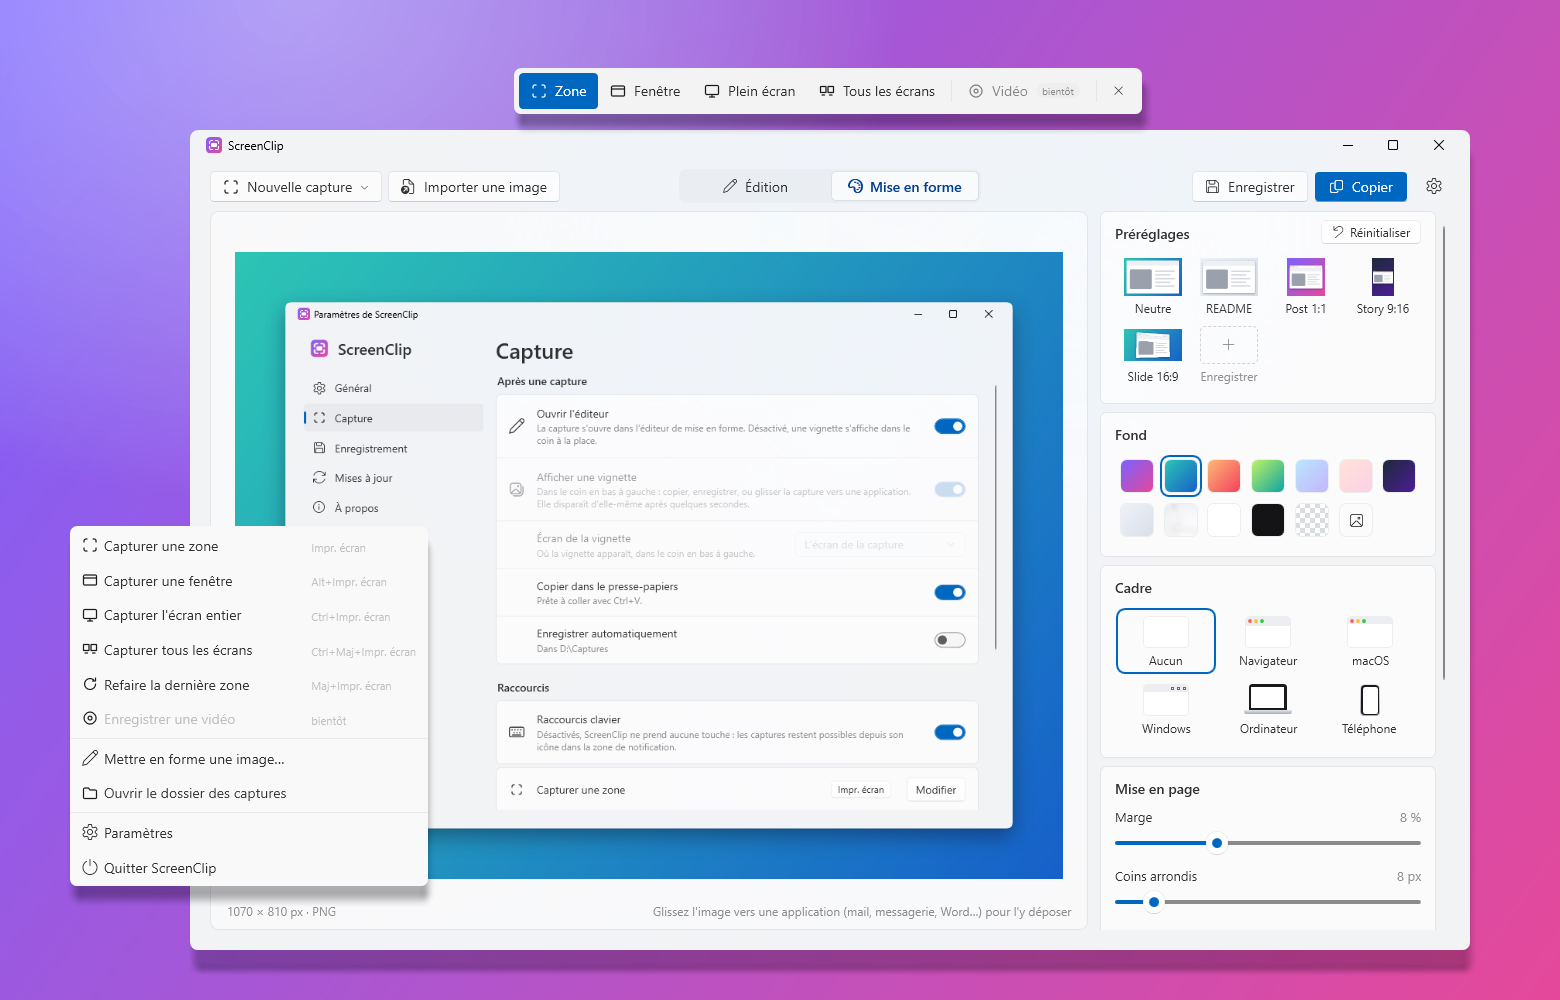
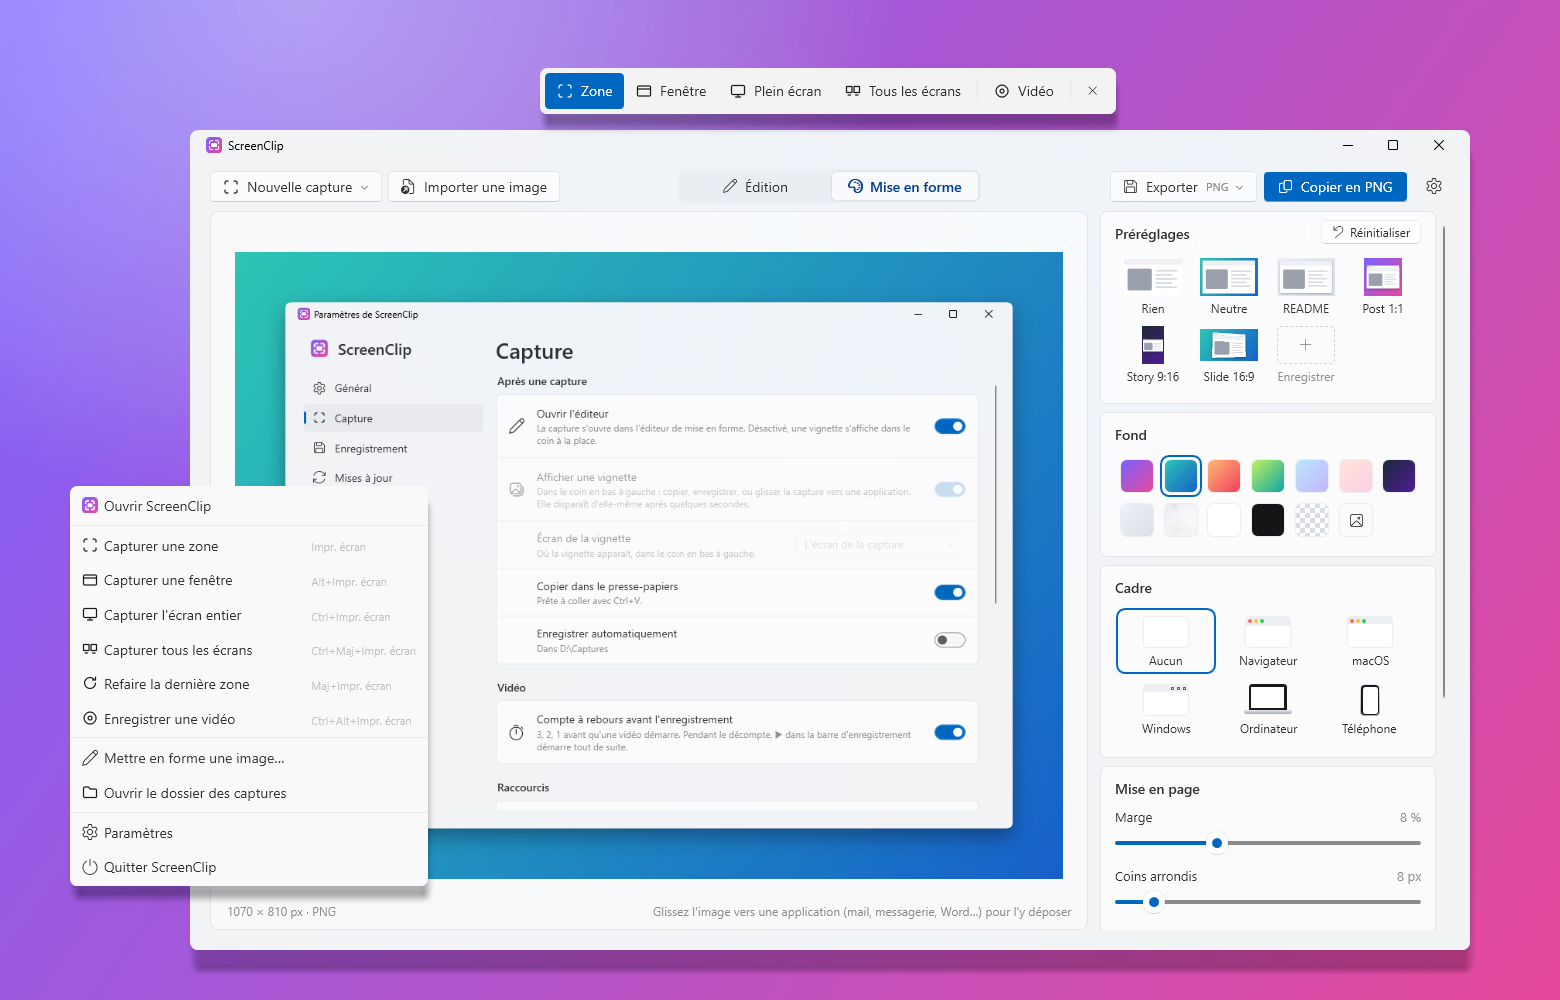
README pictures retaken; video editor picture and a demo GIF
- The six README pictures retaken from the current app (Export, Copy as PNG, the
  Video mode of the capture bar, Open ScreenClip in the notification menu).
- A picture of the video editor at the end of the Video section: a made-up page
  recorded as it scrolls, annotated in time, an A -> B pointer on its way.
- A 20-second motion-design demo (English) at the top of Features, drawn with
  ScreenClip's own composer and annotation renderer from the README pieces.
- Debug recording test: SCREENCLIP_RECORD_SCROLL, a page that scrolls on the
  recording's own clock (RecordingSession.Recorded).

diff --git a/src/ScreenClip/Video/RecordingTest.cs b/src/ScreenClip/Video/RecordingTest.cs
@@ -16,17 +16,27 @@ namespace ScreenClip.Video;
 /// </summary>
 internal static class RecordingTest
 {
+    // The countdown before the recording starts (the stop is timed from the start of the test).
+    private const double Countdown = 3.2;
+
     public static void Run(double seconds)
     {
         App.EnsureTheme();
         var text = new TextBlock { FontSize = 48, FontWeight = FontWeights.SemiBold, Foreground = Brushes.White, HorizontalAlignment = HorizontalAlignment.Center, VerticalAlignment = VerticalAlignment.Center };
         var ball = new System.Windows.Shapes.Ellipse { Width = 50, Height = 50, Fill = Brushes.White, HorizontalAlignment = HorizontalAlignment.Left, VerticalAlignment = VerticalAlignment.Top };
-        var root = new Grid { Children = { ball, text } };
+        // SCREENCLIP_RECORD_SCROLL=<picture>: a page scrolled as someone reading it would, from its top to its end
+        // (the README picture of the video editor); no ball, no time.
+        var page = Environment.GetEnvironmentVariable("SCREENCLIP_RECORD_SCROLL") is { Length: > 0 } pageFile && File.Exists(pageFile)
+            ? new System.Windows.Controls.Image { Source = new System.Windows.Media.Imaging.BitmapImage(new Uri(pageFile)), Stretch = Stretch.Uniform }
+            : null;
+        Panel root = page is null ? new Grid { Children = { ball, text } } : new Canvas { Children = { page }, Background = Brushes.White };
         // SCREENCLIP_RECORD_SIZE=1800x1000 and SCREENCLIP_RECORD_PICTURE=<file>: a large window whose whole picture
         // moves at each frame, as a video played on the screen (the heaviest to decode).
         var size = Environment.GetEnvironmentVariable("SCREENCLIP_RECORD_SIZE")?.Split('x');
         double width = size is { Length: 2 } && double.TryParse(size[0], out double w0) ? w0 : 480;
         double height = size is { Length: 2 } && double.TryParse(size[1], out double h0) ? h0 : 300;
+        if (page is not null)
+            page.Width = width;
         ImageBrush? picture = Environment.GetEnvironmentVariable("SCREENCLIP_RECORD_PICTURE") is { Length: > 0 } file && File.Exists(file)
             ? new ImageBrush(new System.Windows.Media.Imaging.BitmapImage(new Uri(file))) { TileMode = TileMode.FlipXY, ViewportUnits = BrushMappingMode.Absolute, Stretch = Stretch.None }
             : null;
@@ -46,12 +56,22 @@ internal static class RecordingTest
             Content = root,
         };
         var clock = System.Diagnostics.Stopwatch.StartNew();
+        double scrolled = 0;
         var animation = new DispatcherTimer(DispatcherPriority.Render) { Interval = TimeSpan.FromMilliseconds(16) };
         // SCREENCLIP_RECORD_STILL=1: the window stops moving after a second (only the pointer moves then).
         bool still = Environment.GetEnvironmentVariable("SCREENCLIP_RECORD_STILL") == "1";
         animation.Tick += (_, _) =>
         {
             double t = clock.Elapsed.TotalSeconds;
+            if (page is not null)
+            {
+                // On the recording's own clock (Media Foundation may take a moment to start), and only forward: once
+                // stopped, the session is gone.
+                if (RecordingSession.Current is { } session)
+                    scrolled = Math.Max(scrolled, Math.Clamp(session.Recorded.TotalSeconds / seconds, 0, 1));
+                Canvas.SetTop(page, -Math.Max(0, page.ActualHeight - height) * ScrolledShare(scrolled));
+                return;
+            }
             if (still && t > 1)
                 return;
             text.Text = $"{t:0.0} s";
@@ -83,7 +103,7 @@ internal static class RecordingTest
                 return ((float)(w * (0.5 + 0.32 * Math.Cos(s * 1.7))), (float)(h * (0.5 + 0.3 * Math.Sin(s * 2.3))), s % 1.2 is > 0.6 and < 0.75);
             };
             RecordingSession.Begin(area, CaptureController.MonitorOf(area, monitors));
-            var stop = new DispatcherTimer { Interval = TimeSpan.FromSeconds(3.2 + seconds) };
+            var stop = new DispatcherTimer { Interval = TimeSpan.FromSeconds(Countdown + seconds) };
             stop.Tick += (_, _) =>
             {
                 stop.Stop();
@@ -101,6 +121,17 @@ internal static class RecordingTest
             stop.Start();
         };
         start.Start();
+    }
+
+    // How much of the page is scrolled at a share of the recording: still, down to its middle, still, down to its end.
+    private static double ScrolledShare(double progress)
+    {
+        double Ease(double from, double to)
+        {
+            double x = Math.Clamp((progress - from) / (to - from), 0, 1);
+            return x * x * (3 - 2 * x);
+        }
+        return 0.58 * Ease(0.18, 0.34) + 0.42 * Ease(0.62, 0.78);
     }
 }
 #endif

diff --git a/src/ScreenClip/Video/RecordingSession.cs b/src/ScreenClip/Video/RecordingSession.cs
@@ -44,6 +44,9 @@ internal sealed class RecordingSession
     /// <summary>The recording under way, if any: the video shortcut and the notification icon stop it.</summary>
     public static RecordingSession? Current { get; private set; }
 
+    /// <summary>The time recorded so far: nothing during the countdown.</summary>
+    public TimeSpan Recorded => _recorder?.Elapsed ?? TimeSpan.Zero;
+
     /// <summary>Where the recordings are written before they are saved or edited (emptied at each start of the app).</summary>
     public static string Folder => Path.Combine(ClipActions.TempFolder, "Recordings");
 

diff --git a/CLAUDE.md b/CLAUDE.md
@@ -211,7 +211,8 @@ and the recording's bar and line stay in screenshots, as in developer mode), `SC
 `EditorWindow.Script.cs`; writes `<file>.done` at the end), `SCREENCLIP_RECORD_TEST=<seconds>` (Debug builds only:
 records a moving window of its own through the real recording, the pointer apart following a made-up way, then opens
 it in the editor; `SCREENCLIP_RECORD_STILL=1`: the window stops after a second; `SCREENCLIP_RECORD_SIZE=1800x1000` and
-`SCREENCLIP_RECORD_PICTURE=<file>`: a large window whose whole picture moves, the heaviest to decode),
+`SCREENCLIP_RECORD_PICTURE=<file>`: a large window whose whole picture moves, the heaviest to decode;
+`SCREENCLIP_RECORD_SCROLL=<file>`: a page that scrolls, for the README picture of the video editor),
 `SCREENCLIP_INSTANCE=<name>` and `SCREENCLIP_SETTINGS=<file>` (Debug builds only: a second ScreenClip beside the one in
 use, with its own single-instance names, temp folder and settings file: tests never touch the author's app nor his
 settings; build it apart with `dotnet build src\ScreenClip -o <folder>`, since his dev build locks `bin`). Settings live in `%LOCALAPPDATA%\ScreenClip\settings.json`: delete it to see the first start
@@ -244,28 +245,60 @@ again (and the `HKCU\Software\ScreenClip` key).
 
 ### README pictures
 
+All the scripts run a ScreenClip of their own, never the author's app nor his settings: `.local\readme\common.ps1`
+starts the Debug build in `.local\readme\app` (`dotnet build src\ScreenClip -c Debug -o .local\readme\app`) as a
+test instance (`SCREENCLIP_INSTANCE=readme`, `SCREENCLIP_SETTINGS=.local\readme\readme-settings.json`, removed
+afterwards), and finds its windows by its process id. The author's ScreenClip must be quit for `capture-pieces.ps1`
+(it holds the shortcuts, which would show refused in Settings › Capture).
+
 `.github/screenshot.png` (English) and `.github/screenshot.fr.png` (French), 1560 × 1000, at the top of the READMEs:
 the real editor (laying out a capture of the Settings window, `.local\readme\pieces\demo-<lang>.png`, on the “ocean”
 background, no frame), the notification menu and the capture bar, light theme, on the gradient of the icon with
 rounded corners and shadows. The author first had the Settings window there, then asked for the editor in its place.
-The test `settings.json` of the script also holds the demo style; it is removed afterwards (the author's is put
-aside and back). Made by `.local\readme\capture-pieces.ps1` (UI Automation and posted messages, fictitious save
-folder `D:\Captures`; it takes the Settings window's Capture page as `demo-<lang>.png` first, then lays it out in
-the editor; the menu is opened with `WM_CONTEXTMENU`, since a left click on the icon captures) then
-`.local\readme\compose.ps1` (System.Drawing); `.local\README.md` lists the local tools. Retake them when the UI
-changes (last: October 24, 2026, with the Edit and Layout tabs).
+The test settings of the script also hold the demo style. Made by `.local\readme\capture-pieces.ps1` (UI Automation
+and posted messages, fictitious save folder `D:\Captures`; it takes the Settings window's Capture page as
+`demo-<lang>.png` first, then lays it out in the editor's Layout tab; the menu is opened with `WM_CONTEXTMENU`, since
+a left click on the icon captures; the capture bar over the made-up desktop of `SCREENCLIP_DEMO_SCREEN`, not the real
+screen) then `.local\readme\compose.ps1` (System.Drawing); `.local\README.md` lists the local tools. Retake them
+when the UI changes (last: October 26, 2026, all six and the new video one: Export, Copy as PNG, the Video mode,
+Open ScreenClip in the menu).
 
 `.github/edit.png` / `edit.fr.png` (1600 × 1068, under the Edit tab in the READMEs): the real Edit tab on the
 Settings capture (`pieces\demo-<lang>.png`), annotated by the Debug script player: `.local\readme\edit\edit-<lang>.txt`
-played by `.local\readme\edit\script-run.ps1 -Script … -Lang … -Picture … -Shot …` (test settings, `PrintWindow`
-of the editor), then laid out by `.local\readme\frame` (1600 px). The coordinates are the capture's pixels; the
+played by `.local\readme\edit\script-run.ps1 -Script … -Lang … -Picture … -Shot …` (the README instance,
+`PrintWindow` of the editor), then laid out by `.local\readme\frame` (1600 px). The coordinates are the capture's pixels; the
 French page is taller (its descriptions wrap), so each language has its own script.
+
+`.github/video.png` / `video.fr.png` (1600 × 1068, at the end of the Video section of the READMEs; asked by the
+author, October 26, 2026): the real video editor on a recording of a made-up product page that scrolls
+(`.local\readme\video\page.html` rendered by headless Chrome to `page-<lang>.png`, 960 × 1500), annotated in time by
+the script player (`video-<lang>.txt`: a frame around a card and a bubble at its moment, the top of the page and
+the steps framed earlier and later, the recorded pointer hidden by its eye, an A → B pointer chosen, the playhead in
+the middle of its way). `.local\readme\video\shoot-video.ps1 -Lang en|fr -Shot …` runs the README instance with the
+Debug recording test on that page (`SCREENCLIP_RECORD_SCROLL`: the page scrolls on the recording's own clock, still,
+down, still, down, still; 960 × 600 at the top left of the primary screen, the pointer apart along a made-up way),
+takes the editor and deletes the recording; then `.local\readme\frame`. It films that part of the real screen: look
+at the picture before using it.
+
+`.github/demo.gif` (800 × 450, 15 fps, 20 s, ~5 MB; at the top of Features in both READMEs; asked by the author,
+October 26, 2026: “a short motion-design demo, in English”): drawn frame by frame by `.local\readme\demo` (a console
+on Core: SkiaSharp, `Composer` and `AnnotationRenderer` themselves, from the README pieces: an intro on the icon's
+gradient, then 1 Capture (the Print Screen key pressed, the made-up desktop, the overlay, a push-in on the element
+outlined), 2 Lay it out (the Settings capture laid out live: margin, corners and shadow growing, background, macOS
+window, 3D tilt; the style's whole numbers cross-faded so that it grows smoothly), 3 Annotate (the Edit picture's
+annotations coming one by one), 4 Record videos (the video editor picture, a push-in on the tracks), an end card
+with the repository). `dotnet run -c Release` writes `.local\readme\demo\out\screenclip-demo.mp4` (1600 × 900,
+30 fps, 3 Mbit/s, ~7 MB, Media Foundation: for GitHub's own video player, uploaded by the author, under 10 MB) then
+the GIF with Core's `GifEncoder`, its frames drawn at full size and halved (small text stays readable) and brought
+to 5 bits a channel by an ordered dither first (the author found the first GIF banded: the gradients now mix two
+steps; ~3 MB → ~5 MB); `--preview 3.75 9.6 …` writes frames as PNG, `--mp4` the MP4 alone. Retake the
+pieces first when the UI changes.
 
 `.github/selection.png` / `selection.fr.png` (1600 × 951, under “Capture” in the READMEs; asked by the author from the
 mock-up, made from the real overlay instead since the mock-up's had handles, a delay and keys the app does not have):
 the real area overlay over a made-up desktop, a sheet of prints outlined. `.local\readme\scene\scene.html` (`?lang=fr`)
-rendered by headless Chrome to `scene-<lang>.png`; `.local\readme\shoot-selection.ps1 -Lang en|fr` starts the dev
-build with `SCREENCLIP_DEMO_SCREEN` (that picture frozen on every monitor, one handle-less window per monitor: the
+rendered by headless Chrome to `scene-<lang>.png`; `.local\readme\shoot-selection.ps1 -Lang en|fr` starts the README
+instance with `SCREENCLIP_DEMO_SCREEN` (that picture frozen on every monitor, one handle-less window per monitor: the
 blocks come from the picture), posts `WM_HOTKEY` then `WM_MOUSEMOVE` at a point to the overlay (WPF takes the posted
 position), `PrintWindow`s it and quits; `.local\readme\frame` (a console on Core) lays it out with `Composer`
 (violet, 5 %, corners 14, shadow 55, 1600 px wide).

diff --git a/README.fr.md b/README.fr.md
@@ -24,6 +24,10 @@
 
 ## Fonctionnalités
 
+<p align="center">
+  <img src=".github/demo.gif" width="800" alt="Une démo de 20 secondes (en anglais) : Impr. écran fige l'écran et encadre l'élément sous le pointeur ; la capture est mise en forme (marge, coins arrondis, ombre, fond, fenêtre macOS, inclinaison 3D) ; les annotations arrivent l'une après l'autre (un cadre, un surlignage, un flou, une flèche courbe, une bulle, un pointeur) ; puis l'éditeur vidéo avec sa timeline et ses pistes">
+</p>
+
 ### Capture
 
 - **Impr. écran** capture une zone, **Alt + Impr. écran** une fenêtre, **Ctrl + Impr. écran** l'écran entier,
@@ -135,6 +139,10 @@ et mise en forme comprises.
 - Avec le pointeur filmé avec l'écran, la vidéo est enregistrée automatiquement quand les captures le sont, dans
   **Vidéos\Enregistrements d'écran** (modifiable), et copiée. Avec le pointeur à part, c'est l'éditeur qui fait la
   vidéo : **Exporter ▾ → Enregistrer…** (ScreenClip demande avant qu'un enregistrement non sauvé quitte l'éditeur).
+
+<p align="center">
+  <img src=".github/video.fr.png" width="800" alt="L'éditeur vidéo : une page web enregistrée avec un cadre rouge autour d'une carte et une bulle « Dix cartes par page », et un pointeur de souris qui va de A à B sur une courbe en pointillés ; sous la vidéo, la timeline avec ses images et ses poignées jaunes, puis les pistes : le pointeur filmé (masqué) avec ses clics, le pointeur A → B avec ses deux losanges et les barres des annotations à leurs moments ; à droite, les options du pointeur A → B (trajet, mouvement, clic à l'arrivée) et la liste des annotations">
+</p>
 
 ### La touche Impr. écran de Windows
 

diff --git a/README.md b/README.md
@@ -24,6 +24,10 @@
 
 ## Features
 
+<p align="center">
+  <img src=".github/demo.gif" width="800" alt="A 20-second demo: Print Screen freezes the screen and outlines the element under the pointer; the capture is laid out (margin, rounded corners, shadow, background, macOS window, 3D tilt); annotations come one after the other (a frame, a highlighter, a blur, a curved arrow, a bubble, a pointer); then the video editor with its timeline and tracks">
+</p>
+
 ### Capture
 
 - **Print Screen** captures an area, **Alt + Print Screen** a window, **Ctrl + Print Screen** the whole screen,
@@ -127,6 +131,10 @@ picture, annotations and layout included.
 - With the pointer filmed with the screen, the video is saved automatically when the captures are, in
   **Videos\Screen Recordings** (can be changed), and copied. With the pointer apart, the editor makes the video:
   **Export ▾ → Save…** there (ScreenClip asks before an unsaved recording leaves the editor).
+
+<p align="center">
+  <img src=".github/video.png" width="800" alt="The video editor: a recorded web page with a red frame around a card and a speech bubble “Ten cards a page”, and a mouse pointer moving from A to B along a dashed curve; under the video, the timeline with its frames and yellow handles, then the tracks: the recorded pointer (hidden) with its clicks, the A → B pointer with its two diamonds and the bars of the annotations at their moments; on the right, the options of the A → B pointer (path, movement, click on arrival) and the list of annotations">
+</p>
 
 ### Windows' Print Screen key
 
